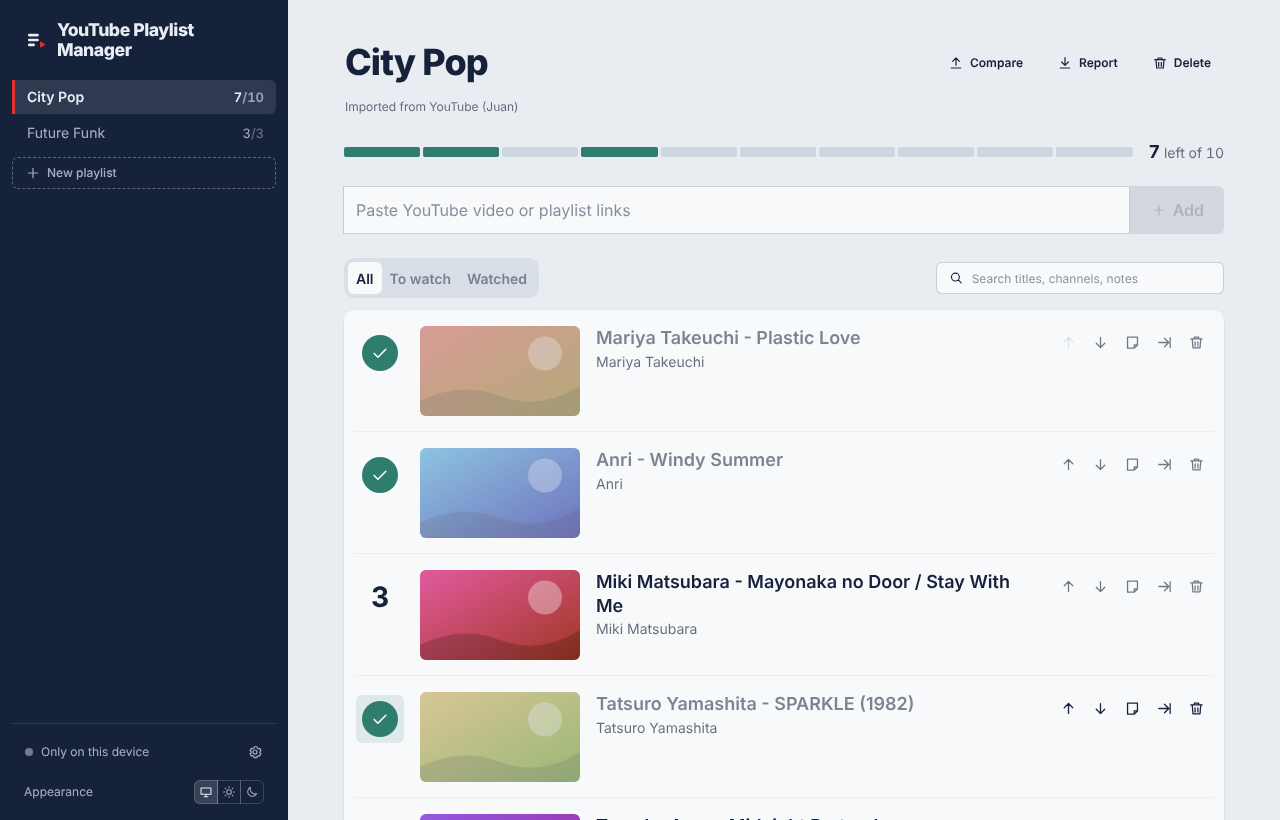
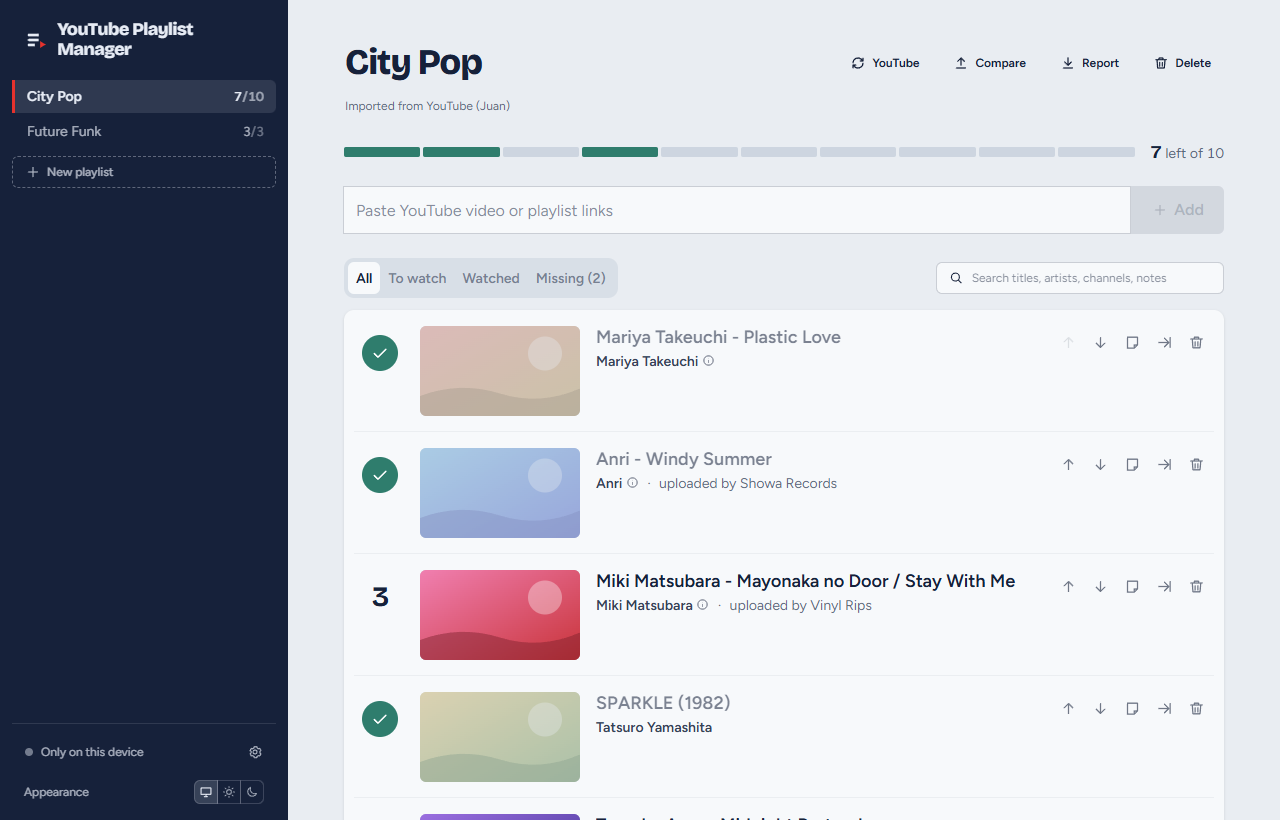
Docs: new screenshots with artists and the YouTube dialog
Retakes every README screenshot at the same sizes (1280x820, and 390x844
at 2x for the phone) with made-up sample data and gradient placeholder
thumbnails, now showing artists, the YouTube button, the Missing filter
with a video deleted on YouTube, and a report with artists in Compare.
Adds a screenshot of Sync from YouTube after comparing.

diff --git a/README.md b/README.md
@@ -6,25 +6,25 @@ Save YouTube videos into your own playlists, put them in order, mark what you've
 
 | Light | Dark |
 | --- | --- |
-| ![A City Pop playlist in the light theme: sidebar with two playlists, progress strip, and videos with thumbnails, three marked as watched](docs/screenshots/playlist-light.png) | ![The same playlist in the dark theme](docs/screenshots/playlist-dark.png) |
+| ![A City Pop playlist in the light theme: sidebar with two playlists, progress strip, and videos with thumbnails, each showing its artist and the channel that uploaded it, three marked as watched](docs/screenshots/playlist-light.png) | ![The same playlist in the dark theme](docs/screenshots/playlist-dark.png) |
 
 **Compare with an old report.** Load a report you saved earlier to see which videos the playlist no longer has, then add them back in their old place:
 
-![Compare dialog: 12 items in the report, 10 still here, 2 missing, listed by number and title](docs/screenshots/compare-report.png)
+![Compare dialog with a report that has artists: 12 items in the report, 10 still here, 2 missing, listed by number, title and artist](docs/screenshots/compare-report.png)
 
 **Missing items** wait for their YouTube link; paste it and the video gets its title, channel and thumbnail:
 
-![Missing filter showing two placeholder items, each with a box to paste its YouTube link](docs/screenshots/missing-items.png)
+![Missing filter showing a video deleted on YouTube and a placeholder from a report, each with a box to paste a YouTube link](docs/screenshots/missing-items.png)
 
 **Artists.** Under each title the app shows the artist, then the channel that uploaded the video: "Anri · uploaded by …". The artist is guessed from YouTube Music's "Artist - Topic" channels and from titles like "Artist - Song" or "Artist「Song」"; a guess has an ⓘ badge, because it may be wrong. Click the artist to correct it: the field suggests artists already in your library and keeps one spelling for each. Search matches artists too.
 
 **Videos deleted on YouTube** keep their place: they show a "Deleted" thumbnail, count under the **Missing** filter, and wait for another link, like Missing items.
 
-<img src="docs/screenshots/phone.png" alt="The playlist on a phone in the dark theme, with buttons for compare, report and delete in the header" width="300" align="right" />
+<img src="docs/screenshots/phone.png" alt="The playlist on a phone in the dark theme, with buttons for YouTube, compare, report and delete in the header" width="300" align="right" />
 
 **On a phone** the sidebar folds away behind the menu button, and the header buttons shrink to icons: YouTube, compare, download report, delete.
 
-The screenshots use sample data and placeholder thumbnails, and were taken before artists and the YouTube button were added.
+The screenshots use sample data and placeholder thumbnails.
 
 <br clear="right" />
 
@@ -277,6 +277,8 @@ An imported playlist remembers which YouTube playlist it came from. The **YouTub
 
 1. Nothing is read from YouTube until you click **Compare with YouTube**. The dialog warns first that syncing makes the playlist follow YouTube.
 2. The comparison lists what's **new on YouTube** (added in YouTube's order), what was **deleted or made private** there (kept and marked as Missing, with the title it had here), what's **back on YouTube**, and what was **removed from the YouTube playlist**.
+![Sync from YouTube after comparing: 2 new videos, 1 deleted on YouTube and 1 removed from the YouTube playlist, with options to import deleted videos, remove the removed one, and save a report first](docs/screenshots/youtube-sync.png)
+
 3. Nothing changes until you **Apply**. Removed videos stay unless you tick **Remove … from this playlist too**, and then **Apply** asks once more before removing them, since their notes and watched marks go with them. **Save a report before applying** (on by default) downloads the playlist's report first.
 
 Without `YOUTUBE_API_KEY`, YouTube only returns the latest videos, so the dialog can still add new ones but can't tell which were removed.
